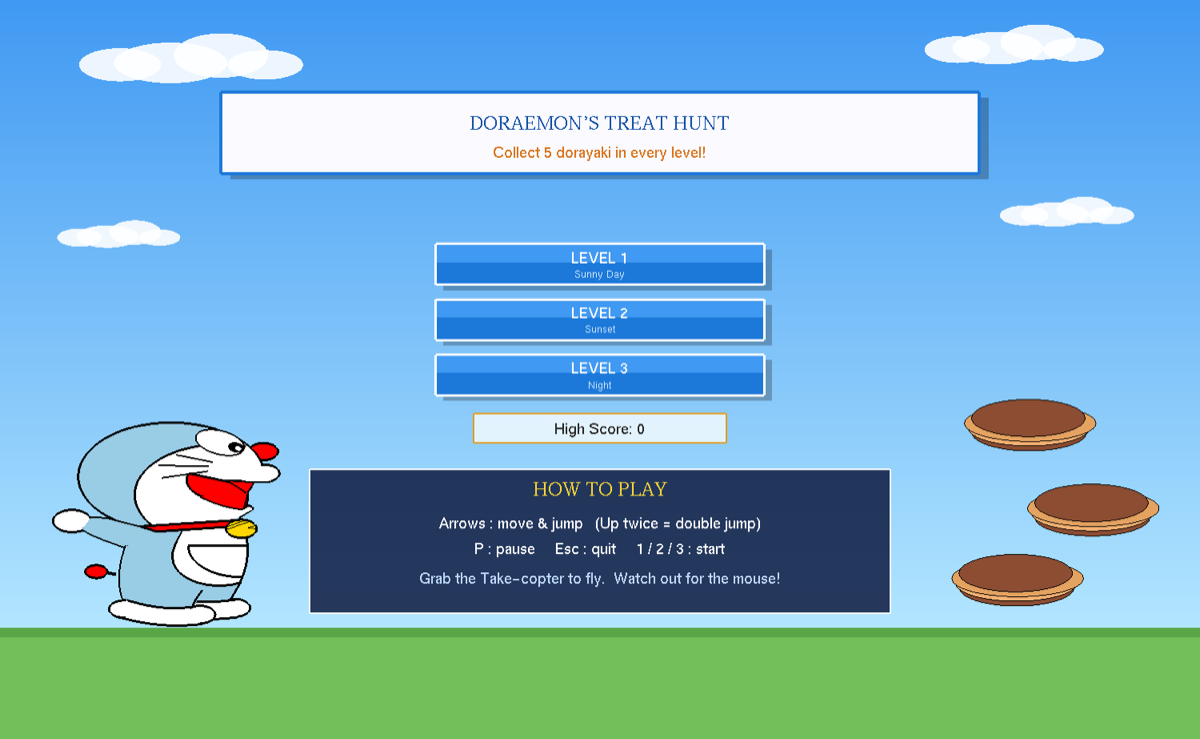
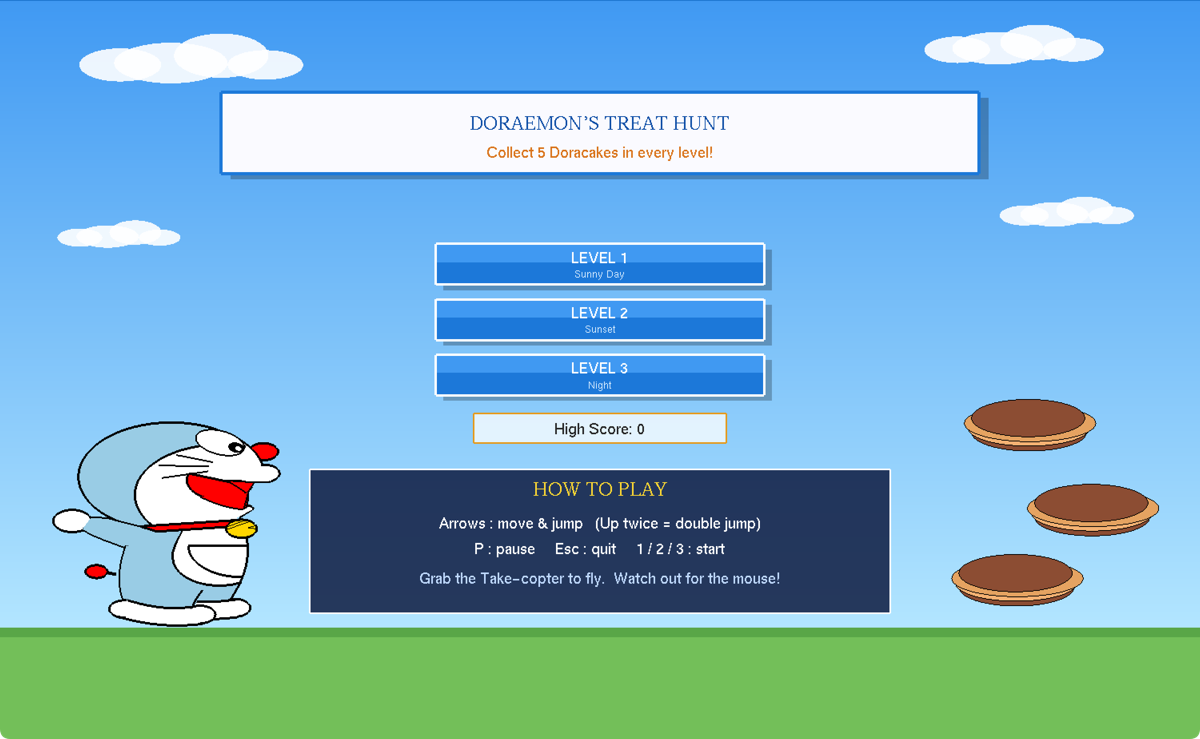
Update game text, README and home screenshot
Rename the collectible in the home screen text, code comments and README, and replace the home screenshot.

diff --git a/main.cpp b/main.cpp
@@ -185,7 +185,7 @@ float fireTimer[TOTAL_FIRES];
 const float FIRE_ON_TIME  = 60.0f;   // frames (~1 sec)
 const float FIRE_OFF_TIME = 60.0f;
 
-// Hazards keep this far (x distance) from dorayaki and hearts
+// Hazards keep this far (x distance) from Doracakes and hearts
 const float HAZARD_CLEARANCE = 3.0f;
 const float OBSTACLE_SLIDE_RANGE = 2.5f;
 
@@ -492,7 +492,7 @@ void homeScreen()
     glColor3f(0.05f, 0.3f, 0.65f);
     drawTextCentered(0.0f, 6.5f, "DORAEMON'S TREAT HUNT", GLUT_BITMAP_TIMES_ROMAN_24);
     glColor3f(0.85f, 0.45f, 0.1f);
-    drawTextCentered(0.0f, 5.75f, "Collect 5 dorayaki in every level!", GLUT_BITMAP_HELVETICA_18);
+    drawTextCentered(0.0f, 5.75f, "Collect 5 Doracakes in every level!", GLUT_BITMAP_HELVETICA_18);
 
     // Level buttons
     drawHomeButton(0, "LEVEL 1", "Sunny Day");
@@ -529,7 +529,7 @@ void homeScreen()
         Doraemon();
     glPopMatrix();
 
-    // Dorayaki on the right
+    // Doracakes on the right
     float cakePos[3][2] = { { 6.9f, -1.8f }, { 7.9f, -4.1f }, { 6.7f, -6.0f } };
     for (int i = 0; i < 3; i++) {
         glPushMatrix();
@@ -4989,7 +4989,7 @@ void drawRotatingSignBoard(float x, float y, int i)
     glPopMatrix();
 }
 
-// Distance from x to the nearest dorayaki or heart, so hazards are not placed on top of them
+// Distance from x to the nearest Doracake or heart, so hazards are not placed on top of them
 float distanceToCollectible(float x)
 {
     float best = 1000.0f;
@@ -5314,7 +5314,7 @@ void placeObstacles() {
             float range = slides ? OBSTACLE_SLIDE_RANGE : 0.0f;
             attempts++;
 
-            // keep clear of dorayaki and hearts (give up after many tries so placement always finishes)
+            // keep clear of Doracakes and hearts (give up after many tries so placement always finishes)
             valid = attempts > 1000 || distanceToCollectible(candidateX) >= HAZARD_CLEARANCE + range;
 
             for (int j = 0; j < i && valid; j++) {

diff --git a/README.md b/README.md
@@ -21,7 +21,7 @@ Built with C++, OpenGL and GLUT for the Computer Graphics course at AIUB
 
 ## 📖 About The Project
 
-**Doraemon's Treat Hunt** is a 2D side-scrolling game developed with OpenGL and GLUT as our Computer Graphics course project at American International University-Bangladesh (AIUB), Fall 2025-26. The player guides Doraemon through a scrolling town across **3 levels**, collecting **5 dorayaki** in each level while avoiding level-specific hazards.
+**Doraemon's Treat Hunt** is a 2D side-scrolling game developed with OpenGL and GLUT as our Computer Graphics course project at American International University-Bangladesh (AIUB), Fall 2025-26. The player guides Doraemon through a scrolling town across **3 levels**, collecting **5 Doracakes** in each level while avoiding level-specific hazards.
 
 Every object in the game, from Doraemon to the houses, lamp posts and trees, is drawn from OpenGL primitives and parametric curves. No image textures or sprites are used.
 
@@ -40,7 +40,7 @@ Every object in the game, from Doraemon to the houses, lamp posts and trees, is 
 
 - **3 levels** with their own sky, lighting and hazards
 - **Side-scrolling movement** with gravity-based jumping and **double jump**
-- **Collectibles:** gather 5 dorayaki per level to clear it
+- **Collectibles:** gather 5 Doracakes per level to clear it
 - **Lives system:** 3 hearts; extra hearts on the road restore a lost life
 - **Take-copter power-up:** pick it up to fly for about 5 seconds
 - **Mouse enemy:** Doraemon is scared of mice and runs the other way when one gets close
@@ -60,13 +60,13 @@ Every object in the game, from Doraemon to the houses, lamp posts and trees, is 
 
 ### 🔊 Audio Features
 
-- Sound effects for collecting dorayaki, getting hit, level complete, game over, the Take-copter and the mouse scare
+- Sound effects for collecting Doracakes, getting hit, level complete, game over, the Take-copter and the mouse scare
 - macOS uses built-in system sounds, so no extra files are needed
 - Windows plays WAV files from a `sounds` folder
 
 ### 💾 Game Systems
 
-- **Score:** +10 points per dorayaki
+- **Score:** +10 points per Doracake
 - **Time bonus:** finish a level in under 60 seconds to earn +2 points for every second left
 - **High score** saved in `highscore.txt` and kept between sessions
 - **Pause** (P), level complete and game over screens
@@ -136,7 +136,7 @@ Create a `sounds` folder next to the executable and add these files:
 
 ```
 sounds/
-├── collect.wav     # Dorayaki collected
+├── collect.wav     # Doracake collected
 ├── hit.wav         # Hit by a hazard
 ├── levelup.wav     # Level complete
 ├── gameover.wav    # Game over
@@ -162,7 +162,7 @@ sounds/
 
 ### Objective
 
-- Collect all **5 dorayaki** in a level to complete it
+- Collect all **5 Doracakes** in a level to complete it
 - Avoid hazards to keep your **3 hearts**
 - Finish quickly to earn a **time bonus**
 - Clear all **3 levels** to win the game
@@ -216,7 +216,7 @@ doraemon-treat-hunt-cg-project/
 
 ### Collision Detection
 
-- Collectibles (dorayaki, hearts): distance-based radius check
+- Collectibles (Doracakes, hearts): distance-based radius check
 - Hazards: rectangular bounding-box intersection
 - 45 invincibility frames (about 0.75 seconds) after a hit
 
@@ -236,7 +236,7 @@ doraemon-treat-hunt-cg-project/
 | `Doraemon()` | Draws the main character from primitives |
 | `homeScreen()` | Draws the main menu with level buttons |
 | `Level1()` to `Level3()` | Draw each level's scene and hazards |
-| `checkCollectibles()` | Detects dorayaki and heart pickups |
+| `checkCollectibles()` | Detects Doracakes and heart pickups |
 | `checkObstacles()` | Handles collisions with hazards |
 | `updateObstacles()` | Animates moving hazards |
 | `checkGadget()` | Handles the Take-copter power-up |
